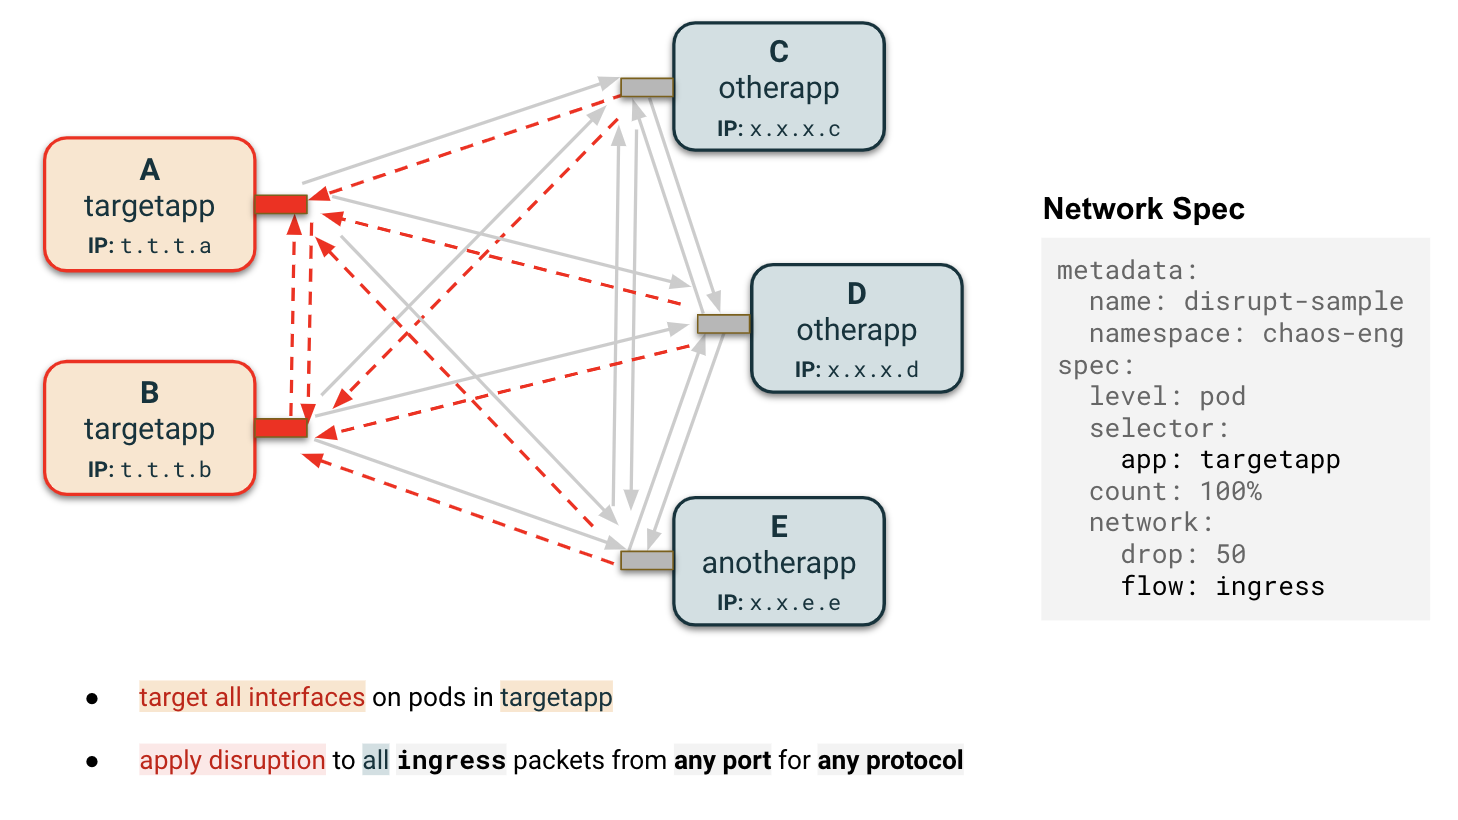
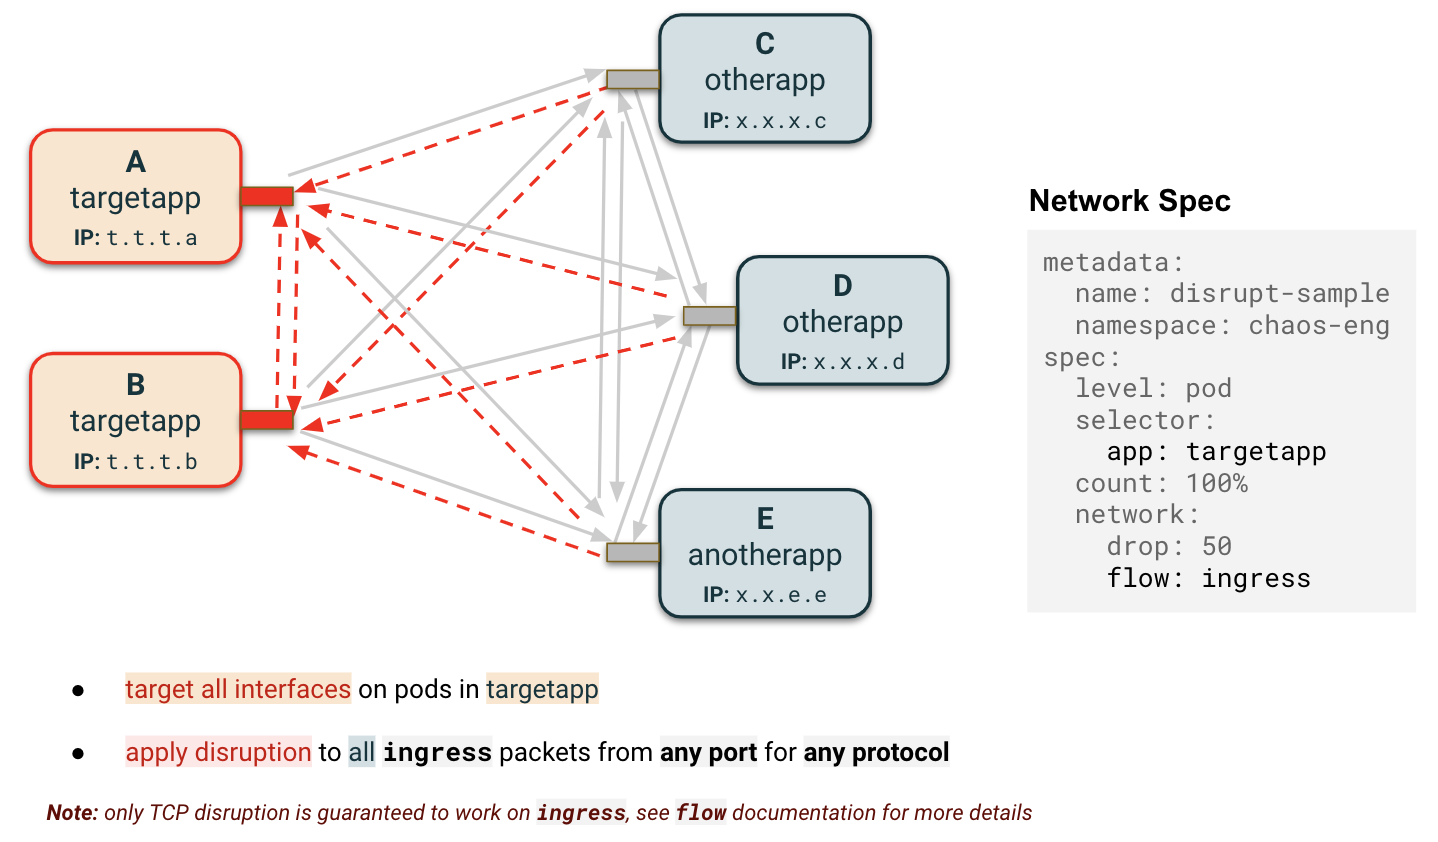
PR comments

diff --git a/docs/network_disruption_hosts.md b/docs/network_disruption_hosts.md
@@ -6,7 +6,7 @@
     <img src="../docs/img/network_hosts/notation_traffic.png" height=180 width=600 />
 </kbd></p>
 
-As with all disruptions, pods or nodes are targeted for injection if they satisfy the conditions of the label selector specified in the `selector` field. For network disruptions, we can also specify to only disrupt packets interacting with a particular host or set of hosts through the `hosts` field.
+As with all disruptions, pods or nodes are targeted for injection if they satisfy the conditions of the label selector specified in the `selector` field. For network disruptions, we can also specify to only disrupt packets interacting with a particular host or set of hosts through the `network.hosts` field. We will refer to `network.hosts` field in the rest of the document as the `hosts` field.
 
 <p align="center"><kbd>
     <img src="../docs/img/network_hosts/notation_egress.png" height=160 width=570 />
@@ -26,7 +26,7 @@ For diagrams in this documentation, arrows represent traffic flow from a particu
     <img src="../docs/img/network_hosts/notation_targets.png" height=100 width=570 />
 </kbd></p>
 
-Note also that the `flow` (`ingress` vs `egress`) for a disruption should be selected deliberatel. Check out [this documentation](/docs/network_disruption_flow.md) for more details!
+Note also that the `flow` (`ingress` vs `egress`) for a disruption should be selected deliberately. Check out [this documentation](/docs/network_disruption_flow.md) for more details!
 
 <p align="center"><kbd>
     <img src="../docs/img/network_hosts/notation_ingress.png" height=160 width=570 />
@@ -140,7 +140,7 @@ The diagrams thus far seem to imply that all network interfaces have a routing t
 </kbd></p>
 
 ### Case 2: Disrupting an entire AZ
-If we disrupt an entire Availability Zone, note that the pods encompassed by the `hosts` field often fall within the nodes targeted.
+Given a label which encompasses all nodes in an Availability Zone, `chaos-controller` can simulate zonal failures for one or more cloud services.
 
 <p align="center"><kbd>
     <img src="../docs/img/network_hosts/nodes_label_az.png" height=330 width=600/>

diff --git a/docs/network_disruption_flow.md b/docs/network_disruption_flow.md
@@ -35,4 +35,4 @@ In this case, you want to target the `server` pod and use the `ingress` flow so 
 
 The current implementation of the `ingress` flow is not a real filter on incoming packets but rather a filter on responses to these packets (ie. outgoing packets). During a TCP communication, when the client sends a packet to the server, the server answers with an acknowledgement packet to confirm that it received the client's packet. By disrupting this acknowledgement packet, it simulates an ingress disruption. As such, the `ingress` flow implementation will not work for UDP unless the server depends on the response packets.
 
-Additionally, the `hosts` field cannot be used reliably with `ingress` flow. For instance, if the `nginx` service is in a cluster of pods using the host network, the `hosts` field contains the cluster IP, but the `source IP` field of the packet would have the  address of the specific pod from which the request originated. For now, we do not have a solution for resolving cluster IPs to specific pod IPs.
+Additionally, the `hosts` field cannot be used reliably with `ingress` flow. For instance, if the `nginx` service is in a cluster of pods using the host network, the `hosts` field contains the cluster IP, but the `source IP` field of the packet would have the address of the specific pod from which the request originated. For now, we do not have a solution for resolving cluster IPs to specific pod IPs.

diff --git a/docs/network_disruption_prio.md b/docs/network_disruption_prio.md
@@ -8,7 +8,7 @@
     <img src="../docs/img/network_prio/pfifo.png" height=200 width=650 />
 </kbd></p>
 
-The `prio` qdisc is a queuing discipline used to define Quality of Service (QoS) on the outgoing traffic. By default, a `prio` qdisc has 3 bands. A priority map spreads the traffic across those 3 bands depending on its criticality as indicated in the IP packet. `Band 0` is always drained before dequeuing `Band 1`, and `Band 1` is drained before dequeing `Band 2`. More information about this can be found on the [official tc-prio documentation](https://linux.die.net/man/8/tc-prio). 
+The `prio` qdisc is a queuing discipline used to define Quality of Service (QoS) on the outgoing traffic. By default, a `prio` qdisc has 3 bands. A priority map spreads the traffic across those 3 bands depending on its criticality as indicated in the IP packet. `Band 0` is always drained before dequeuing `Band 1`, and `Band 1` is drained before dequeueing `Band 2`. More information about this can be found on the [official tc-prio documentation](https://linux.die.net/man/8/tc-prio). 
 
 <p align="center"><kbd>
     <img src="../docs/img/network_prio/classic_visualization.png" height=300 width=650 />
